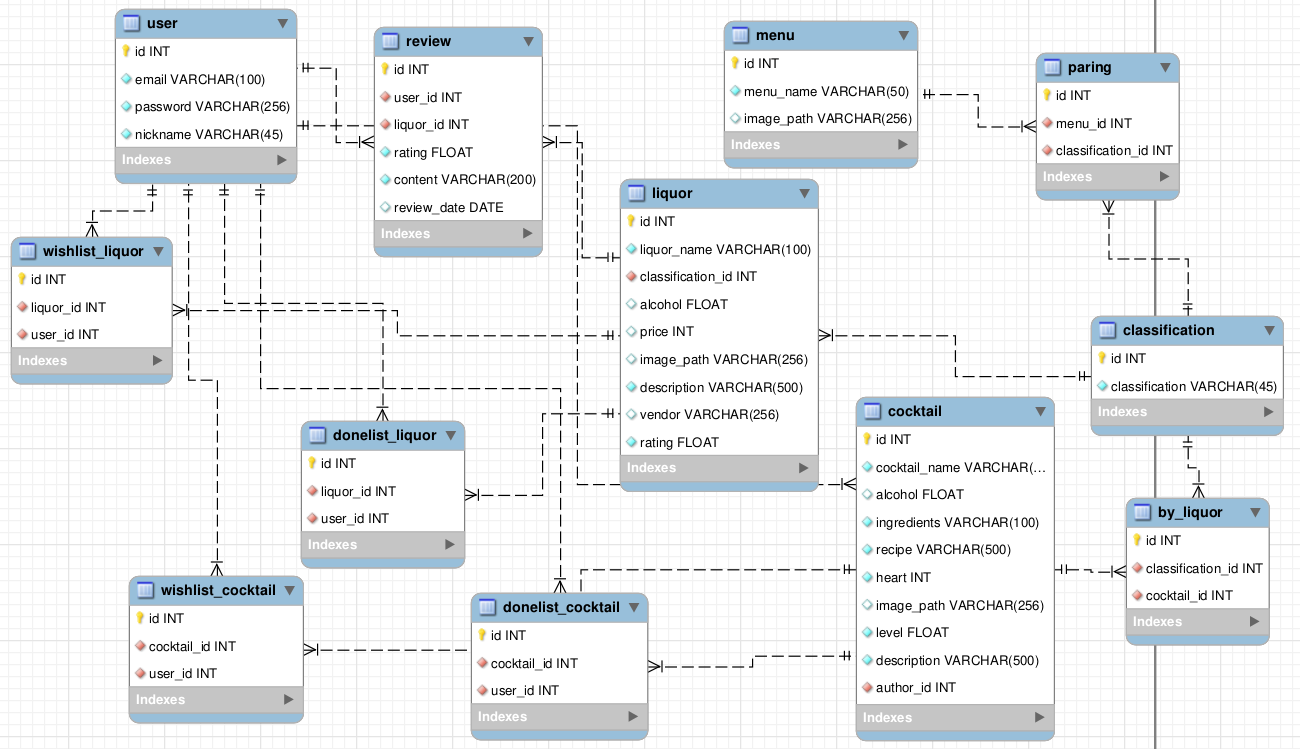
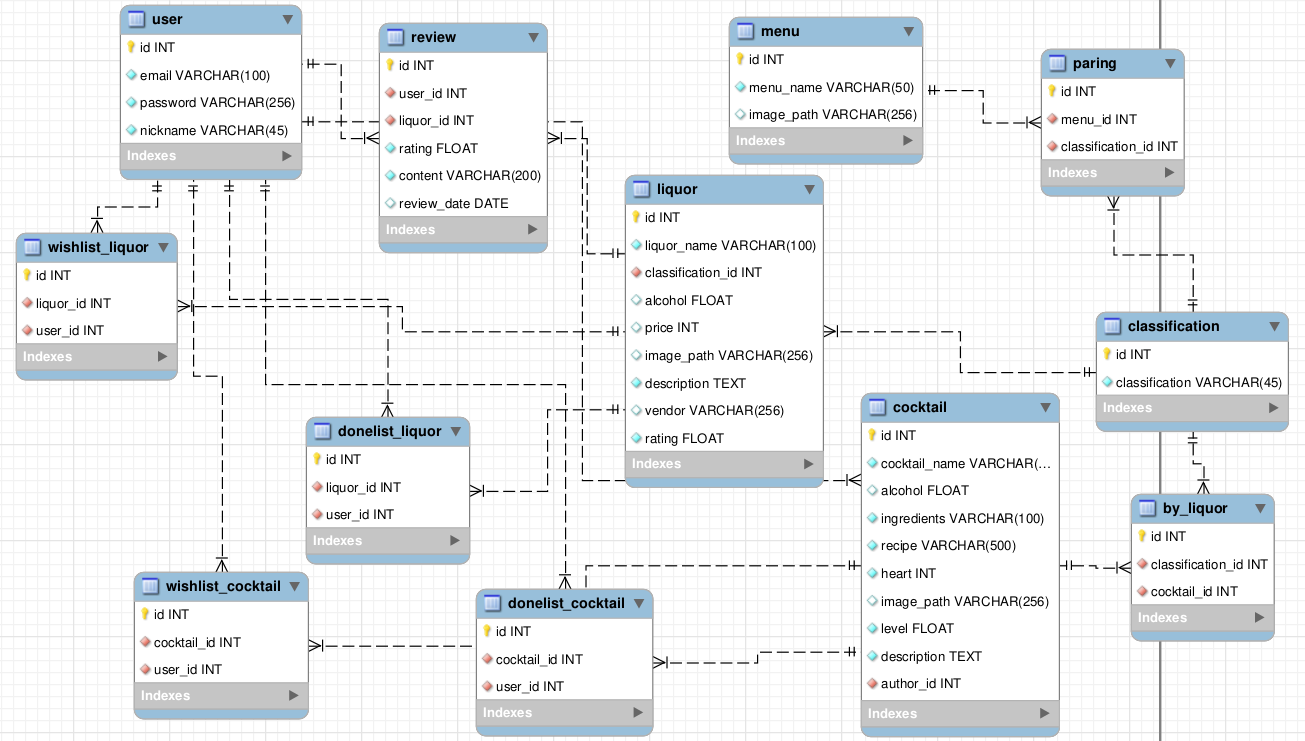
description 데이터 타입 text로 변경. 샘플데이터에 개행문자 추가하여 저장

diff --git a/models/liquor.py b/models/liquor.py
@@ -21,7 +21,7 @@ class Liquor(db.Model):
     alcohol = db.Column(db.Float)
     price = db.Column(db.Integer)
     image_path = db.Column(db.String(256))
-    description = db.Column(db.String(500), nullable=False) 
+    description = db.Column(db.Text, nullable=False) 
     vendor = db.Column(db.String(256))
     rating = db.Column(db.Float, nullable=False, default=0)
 
@@ -42,7 +42,7 @@ class Cocktail(db.Model):
     heart = db.Column(db.Integer, default=0, nullable=False)
     level = db.Column(db.Float, nullable=False)
     image_path = db.Column(db.String(256))
-    description = db.Column(db.String(500), nullable=False) 
+    description = db.Column(db.Text, nullable=False) 
 
     wish_c = relationship("Wishlist_cocktail", back_populates="wish_c_info")
     done_c = relationship("Donelist_cocktail", back_populates="done_c_info")
